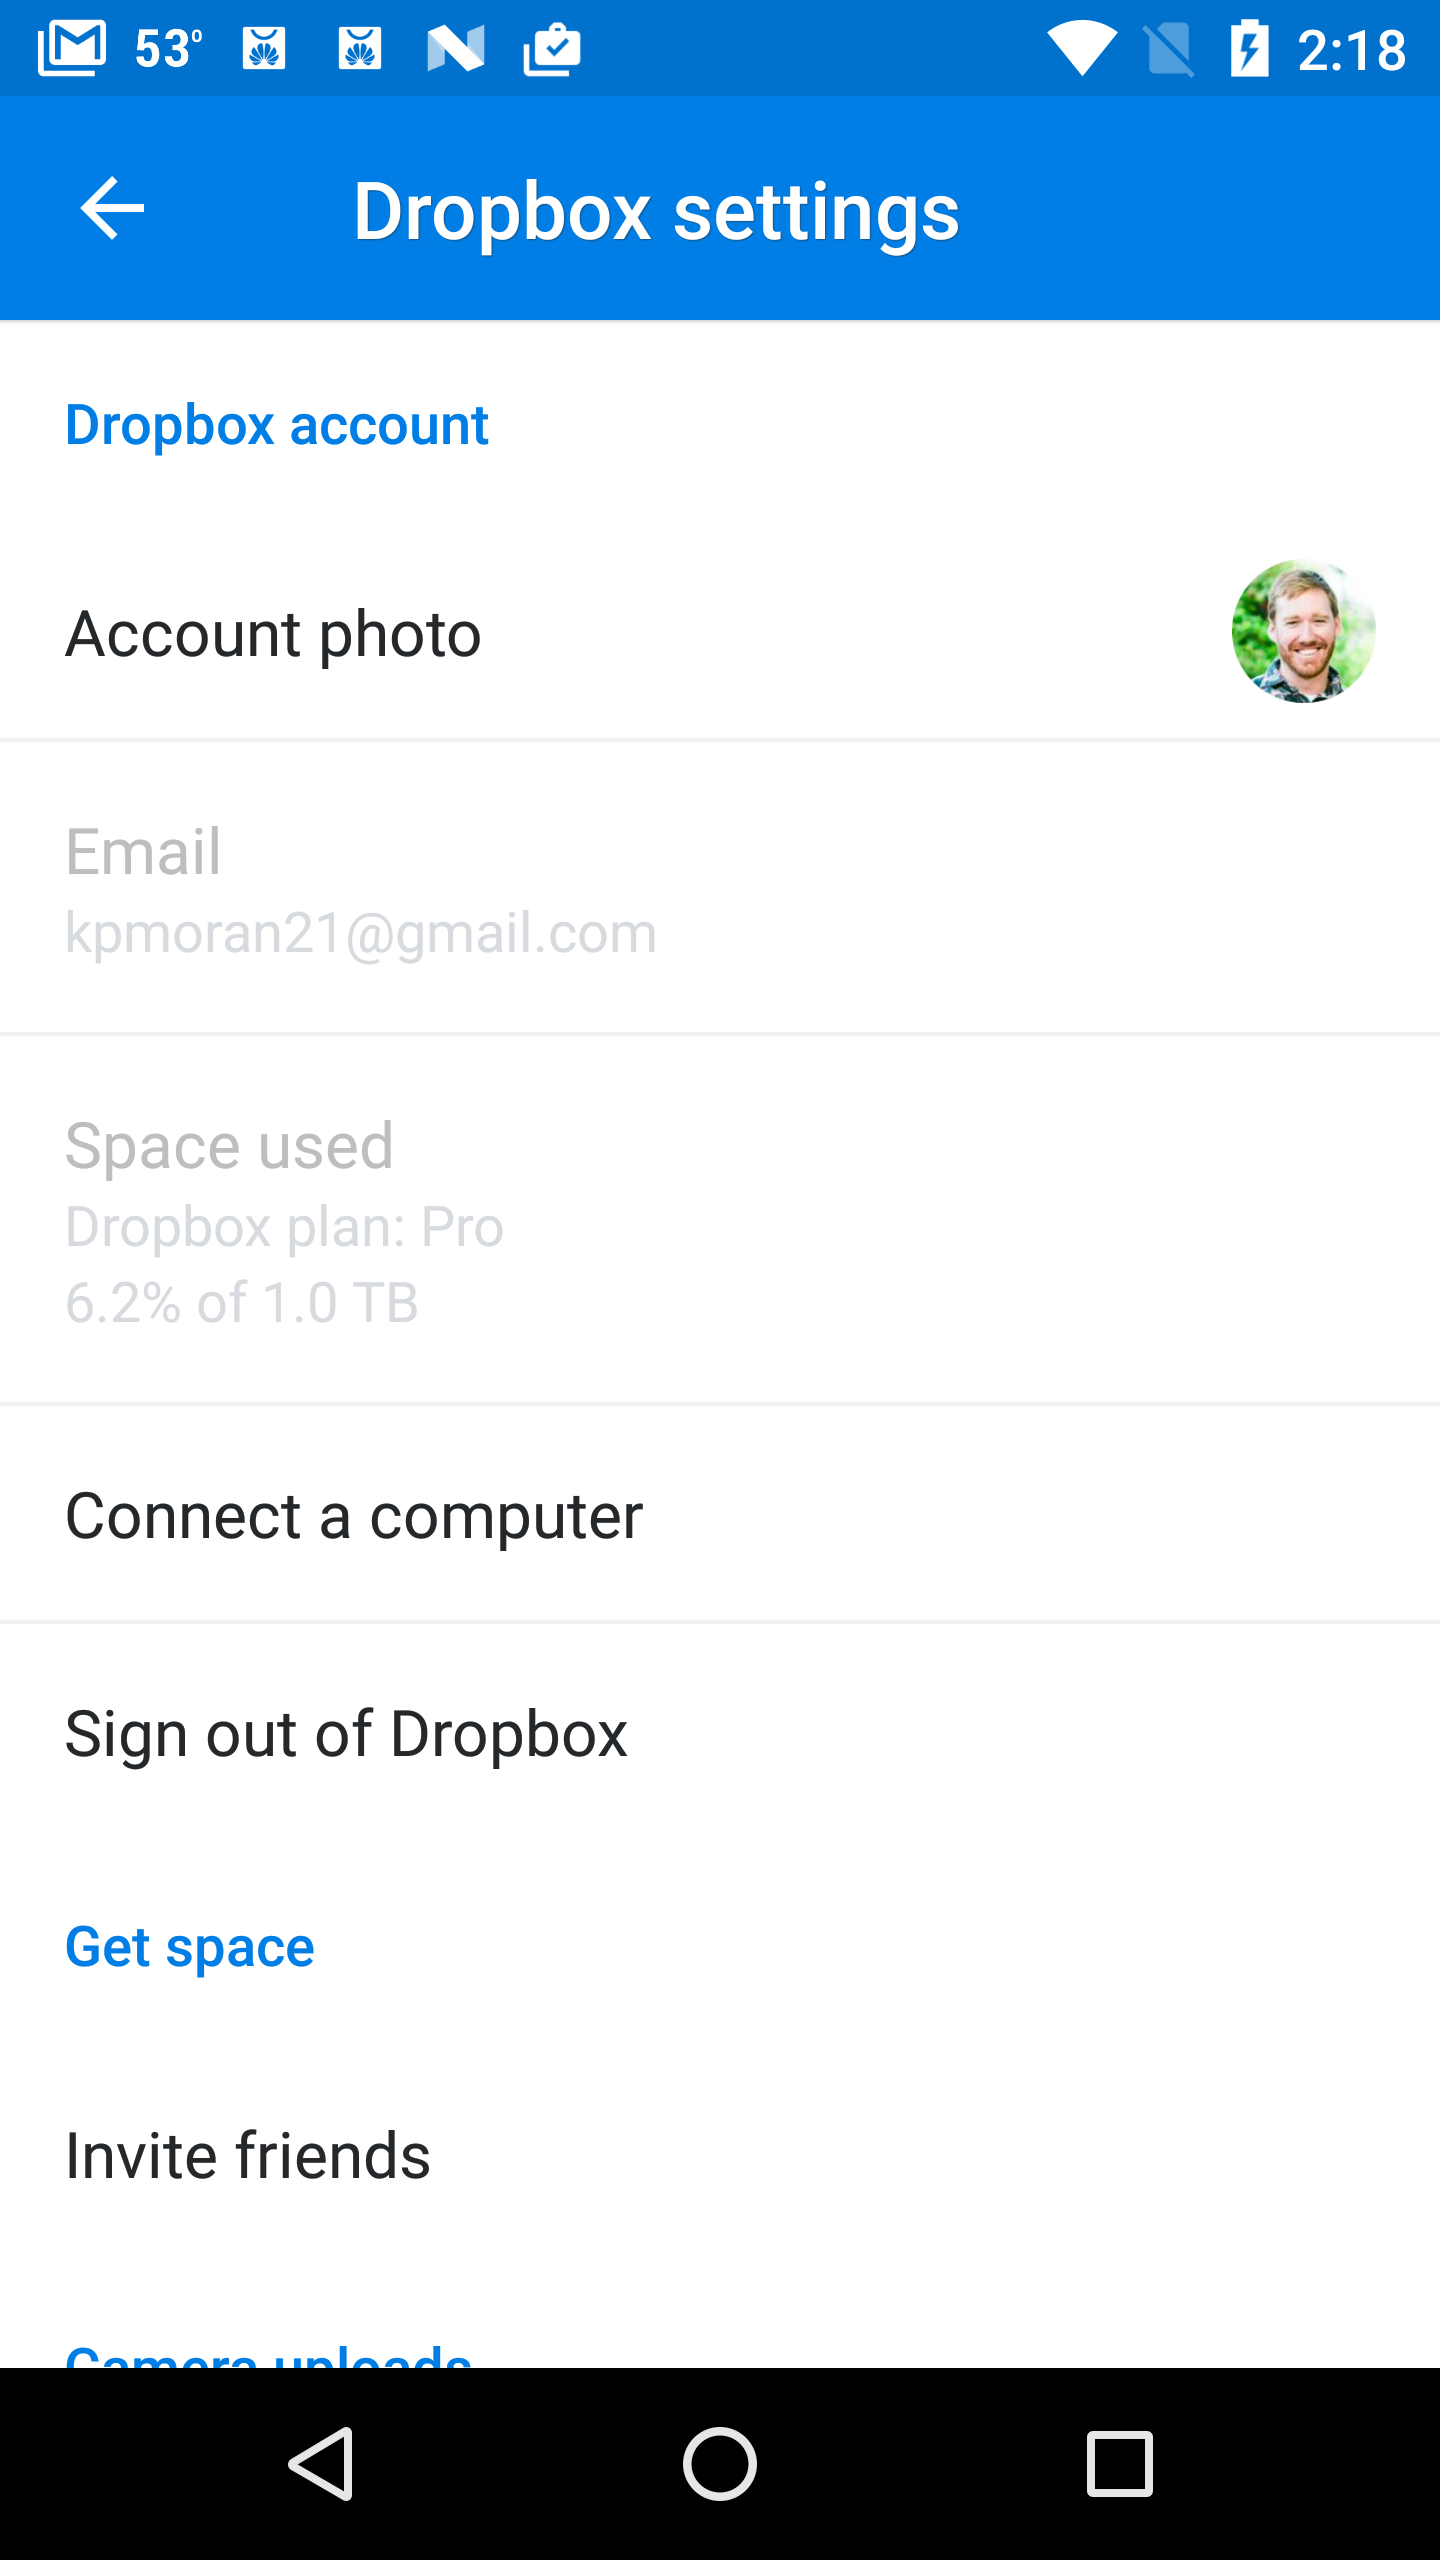
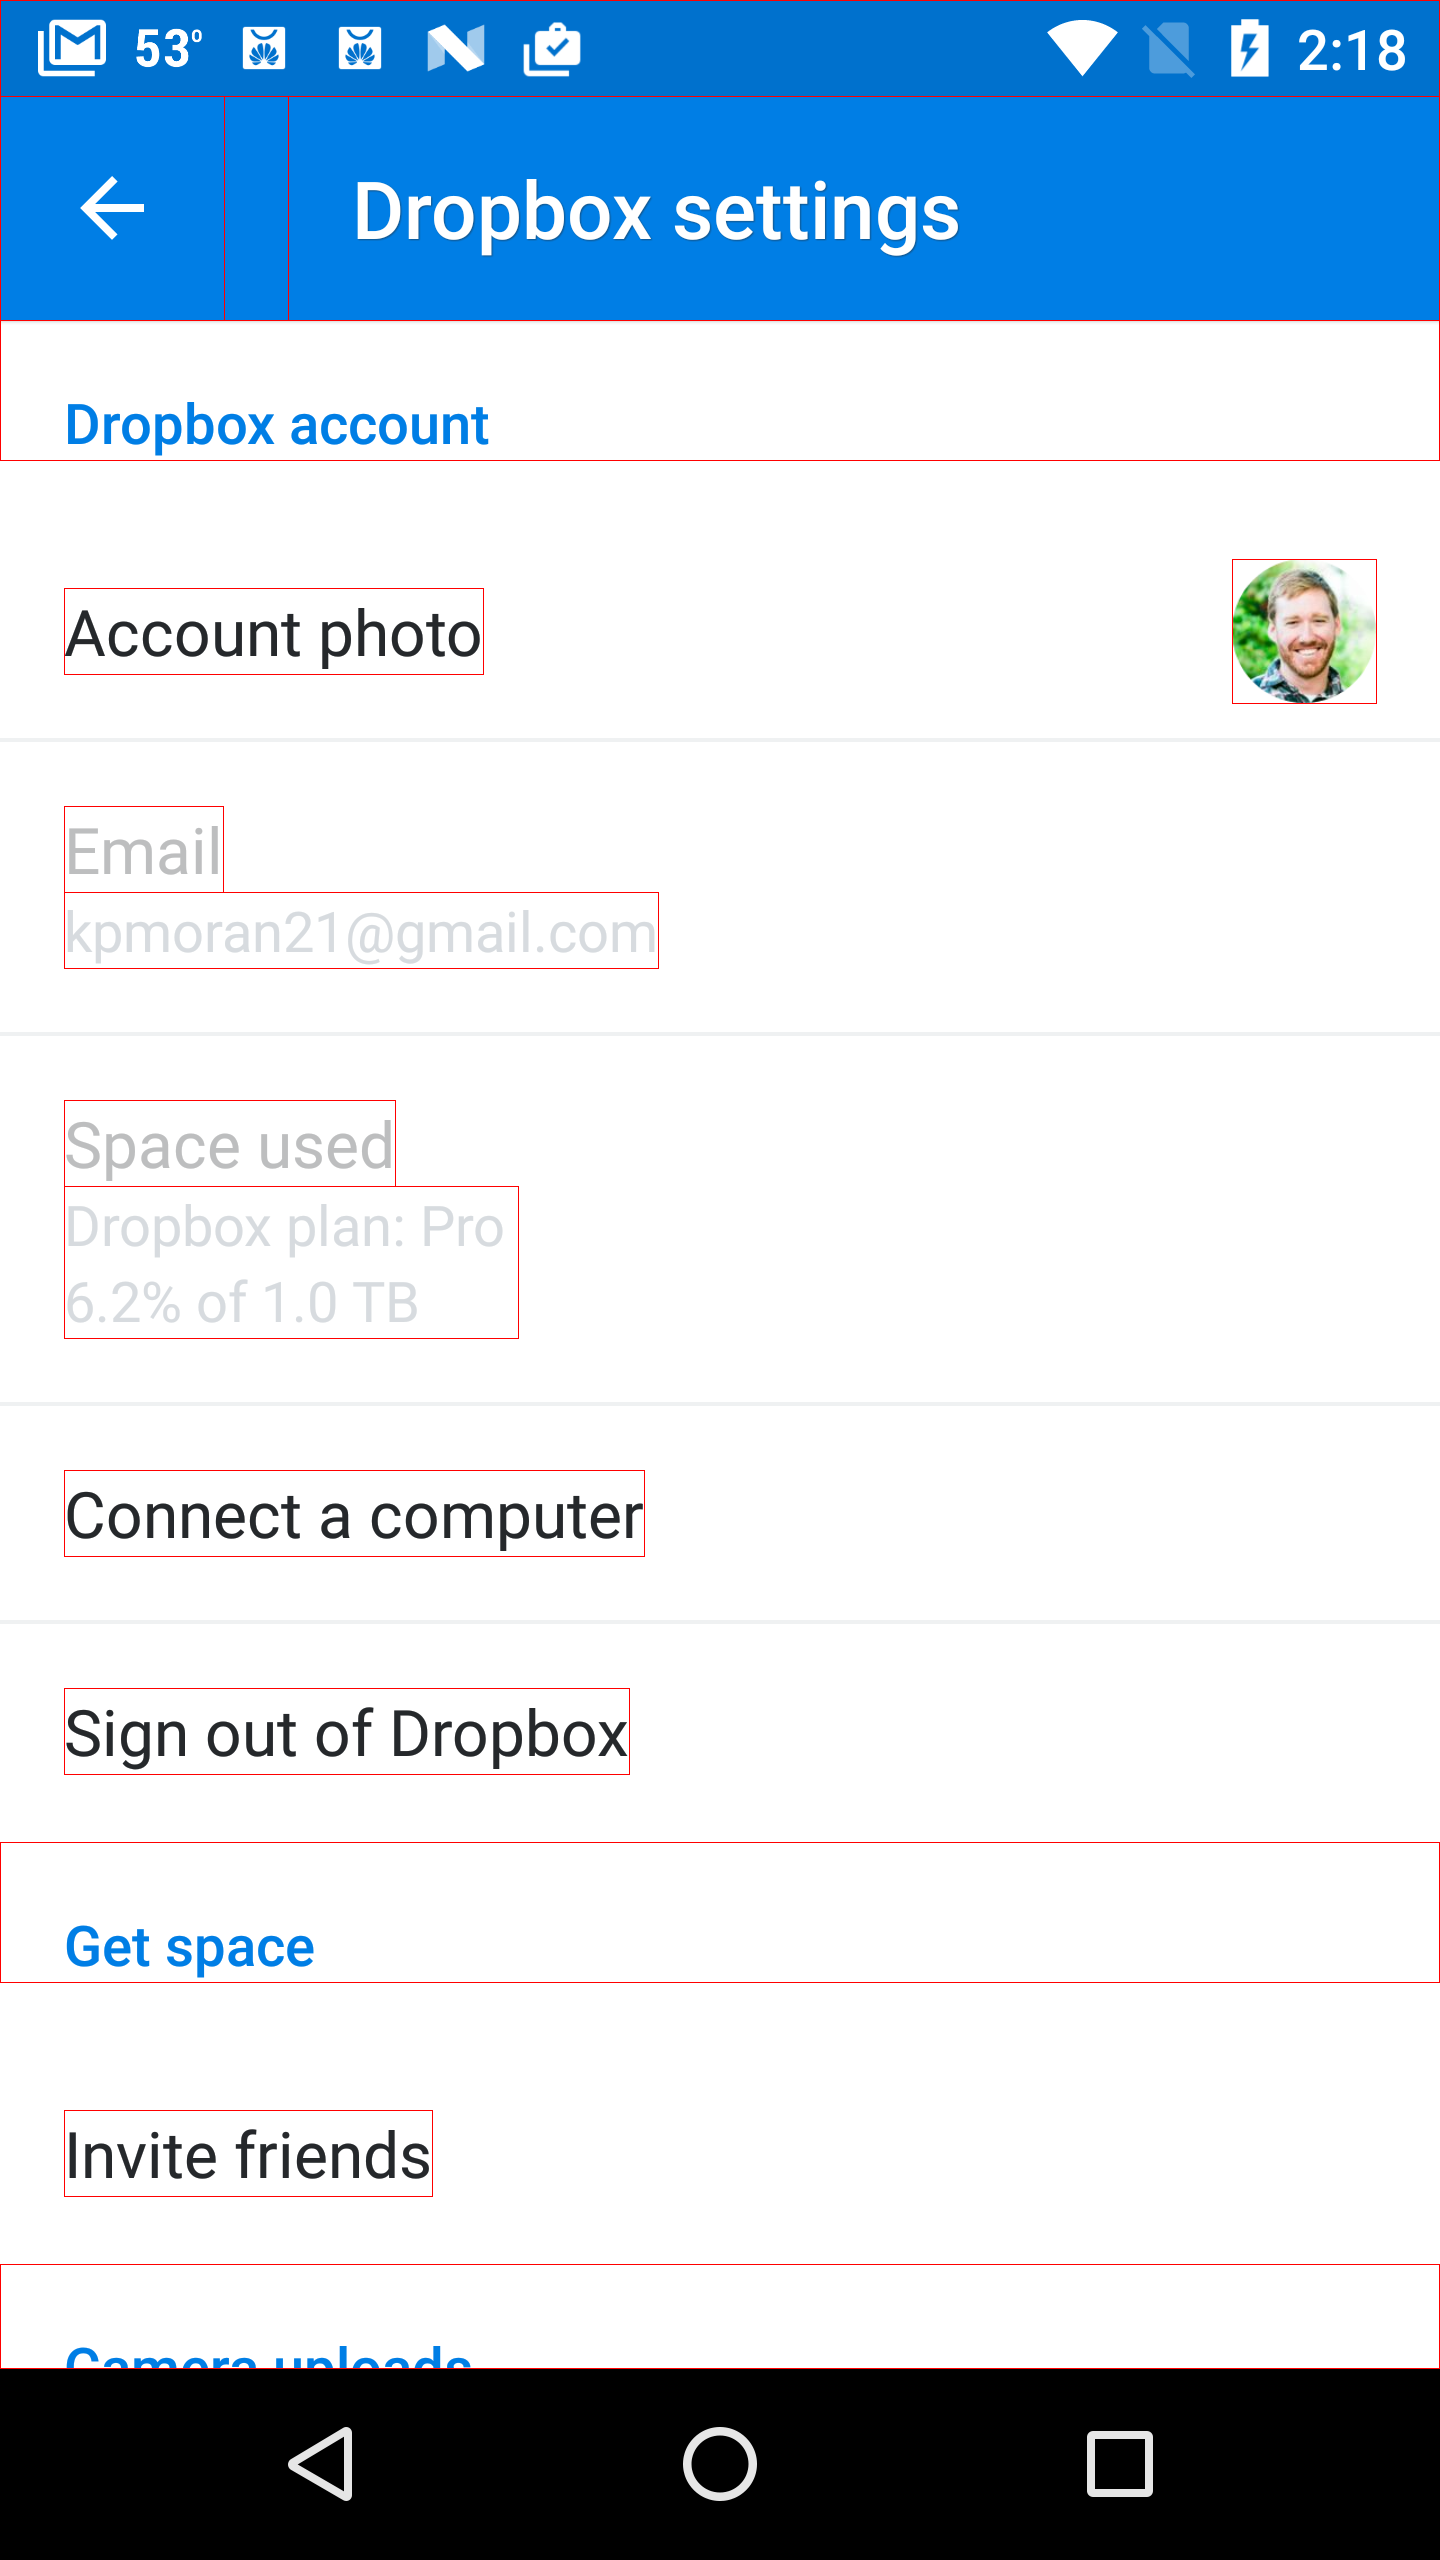
Add box drawing

diff --git a/annotate.py b/annotate.py
@@ -21,7 +21,6 @@ for file in os.listdir(path):
         width, height, rows, info = reader.read()
         matrix = numpy.vstack([row for row in rows])
         print(width, height)
-        print(matrix)
         print(len(matrix))
         print(len(matrix[0]))
 
@@ -31,7 +30,6 @@ for file in os.listdir(path):
                 index += 5
                 endnodeindex = line.find('>', index)
                 if line[endnodeindex-1] == '/':
-                    print(line[:endnodeindex])
                     #this is a leaf node, time to do some ugly string parsing
                     boundindex = line.find('bounds=', index)
                     firstboundindex = line.find('[', boundindex)
@@ -46,7 +44,35 @@ for file in os.listdir(path):
                     endindex = line.find(']',comma2index)
                     y2 = int(line[comma2index+1:endindex])
 
-                    #draw box
+                    #fix out of bounds error
+                    if x2 >= width:
+                        x2 = width - 1
+                    if y2 >= height:
+                        y2 = height - 1
+
+                    #draw box in red
+                    for x in range(x1, x2 + 1):
+                        #set red to 255 and blue, green to 0
+                        #note the *4 to account for the values r,g,b,a for each pixel
+                        matrix[y1][x * 4] = 255
+                        matrix[y1][x * 4 + 1] = 0
+                        matrix[y1][x * 4 + 2] = 0
+
+                        matrix[y2][x * 4] = 255
+                        matrix[y2][x * 4 + 1] = 0
+                        matrix[y2][x * 4 + 2] = 0
+
+                    for y in range(y1 + 1, y2):
+                        #set red to 255 and blue, green to 0
+                        #note the *4 to account for the values r,g,b,a for each pixel
+                        matrix[y][x1 * 4] = 255
+                        matrix[y][x1 * 4 + 1] = 0
+                        matrix[y][x1 * 4 + 2] = 0
+
+                        matrix[y][x2 * 4] = 255
+                        matrix[y][x2 * 4 + 1] = 0
+                        matrix[y][x2 * 4 + 2] = 0
+
                     
                 index = line.find('<node', endnodeindex)
                     
